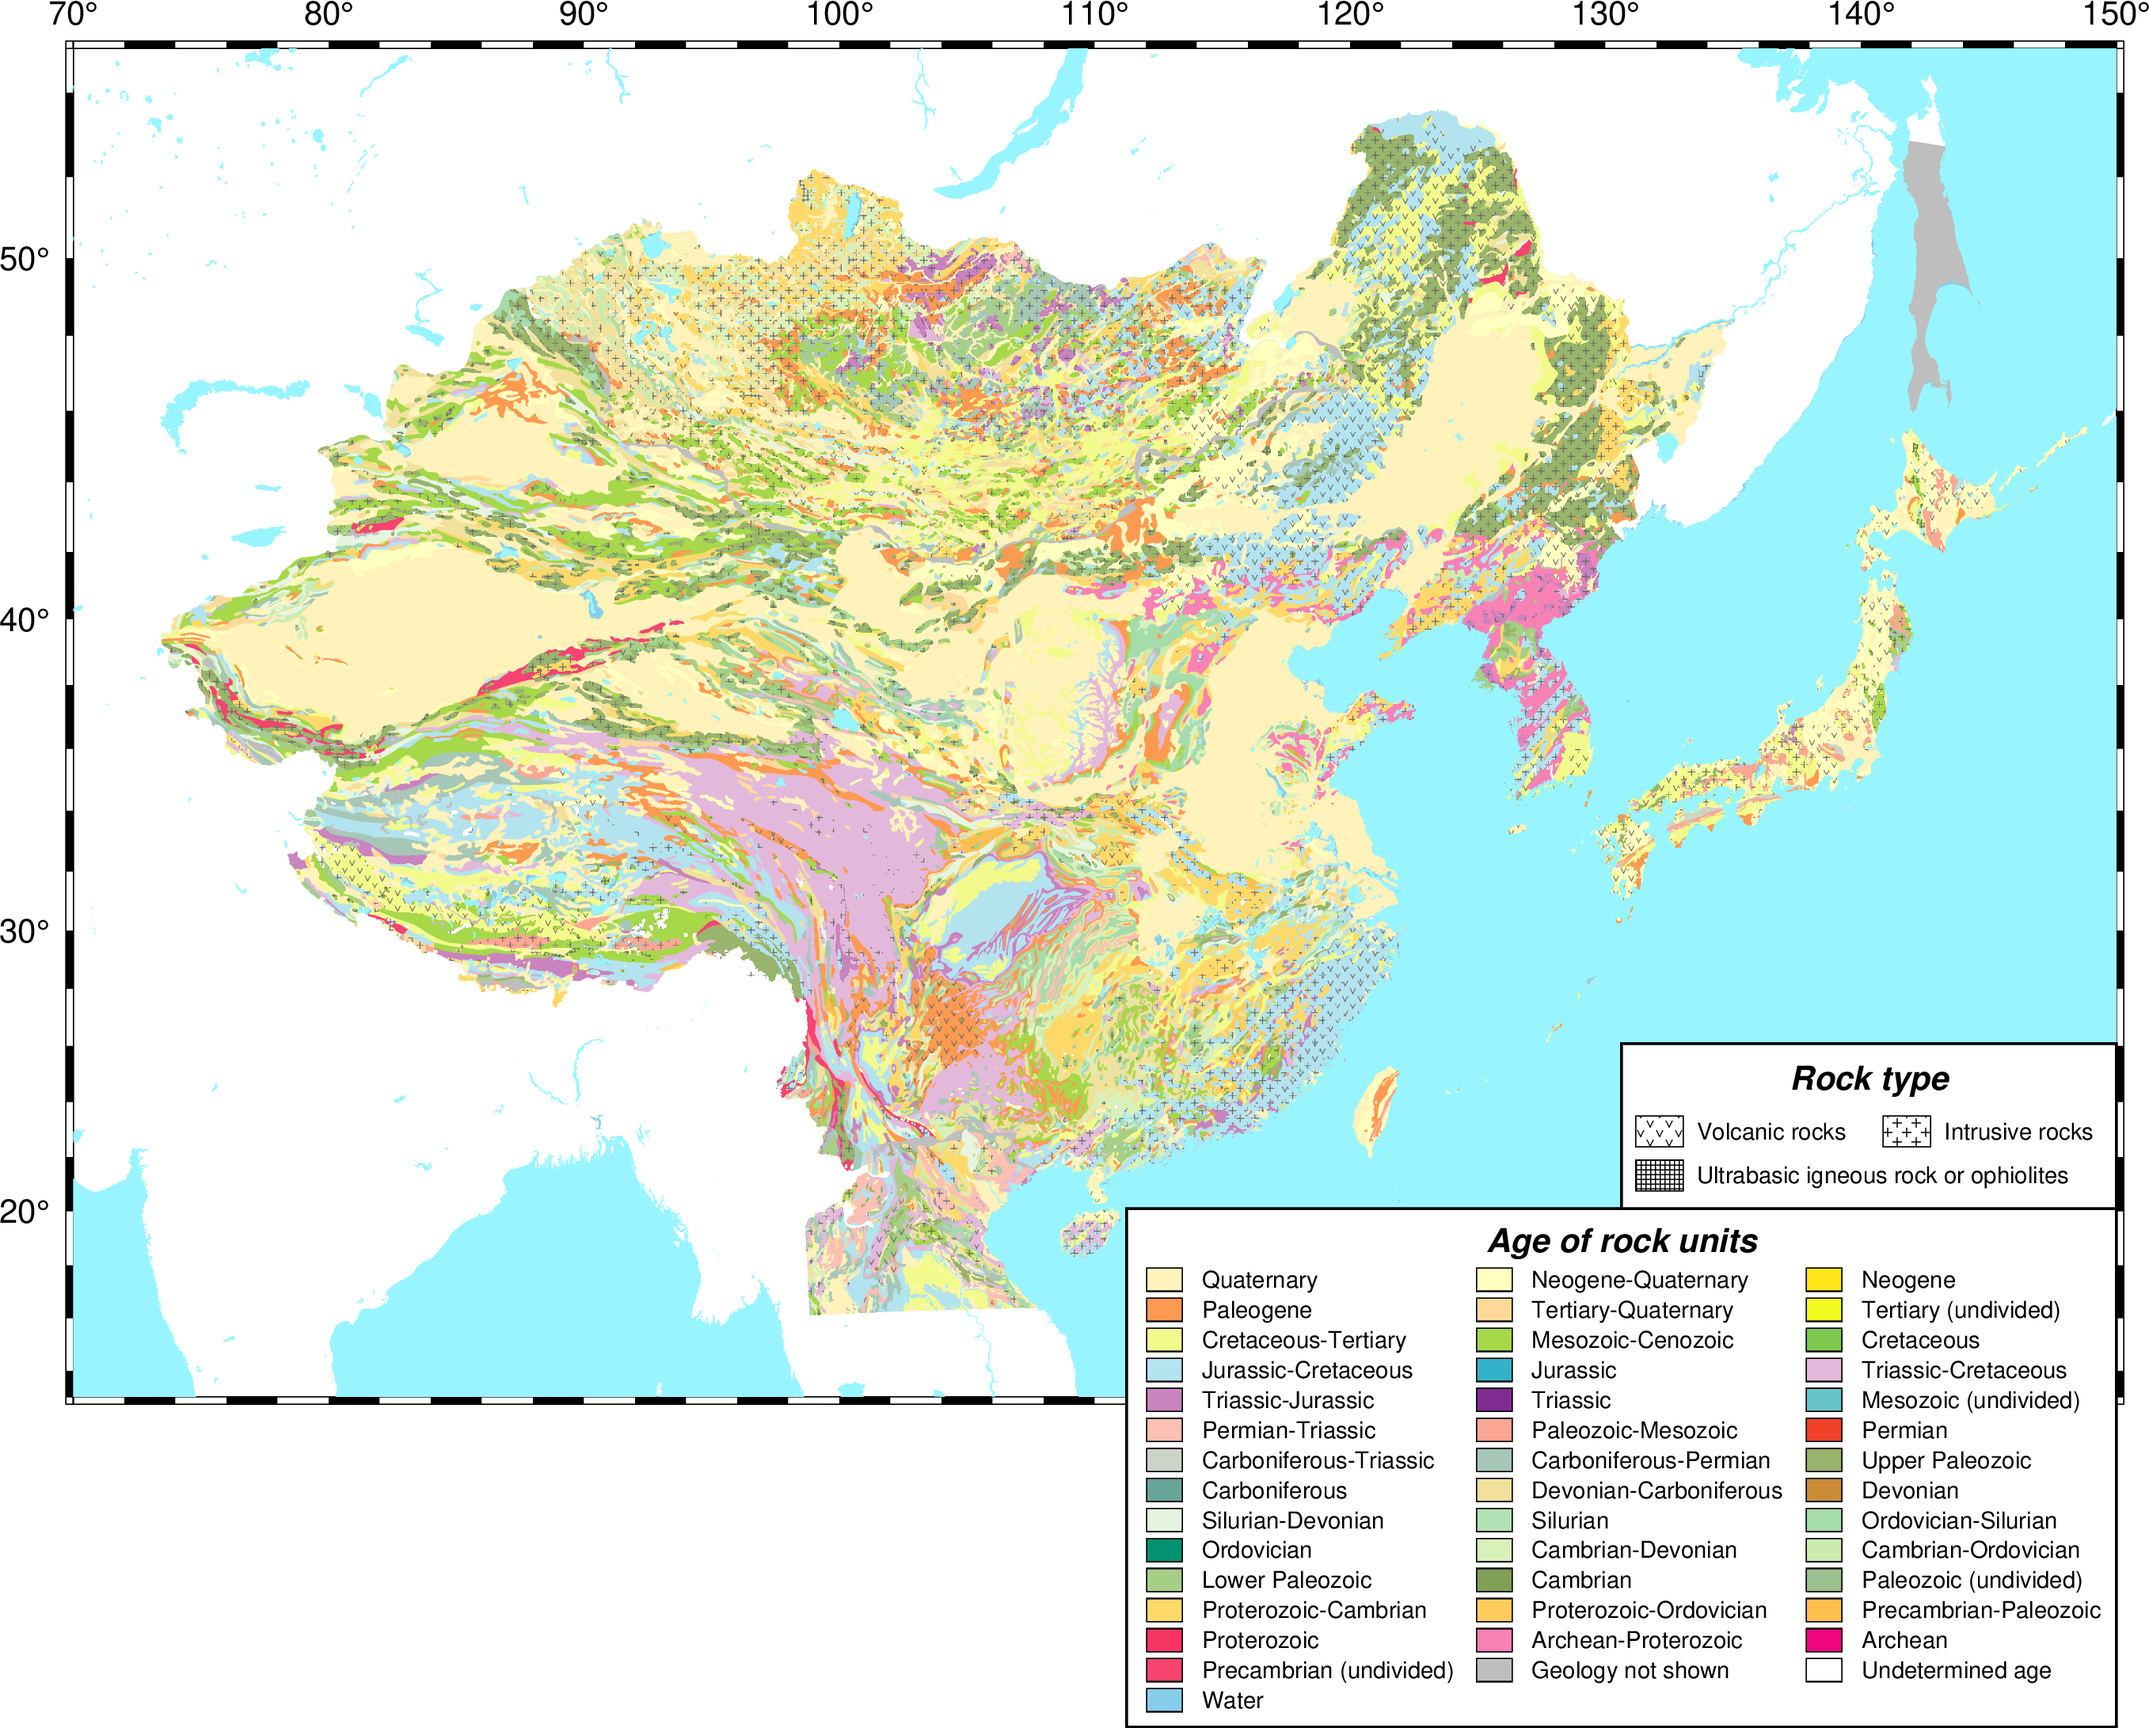
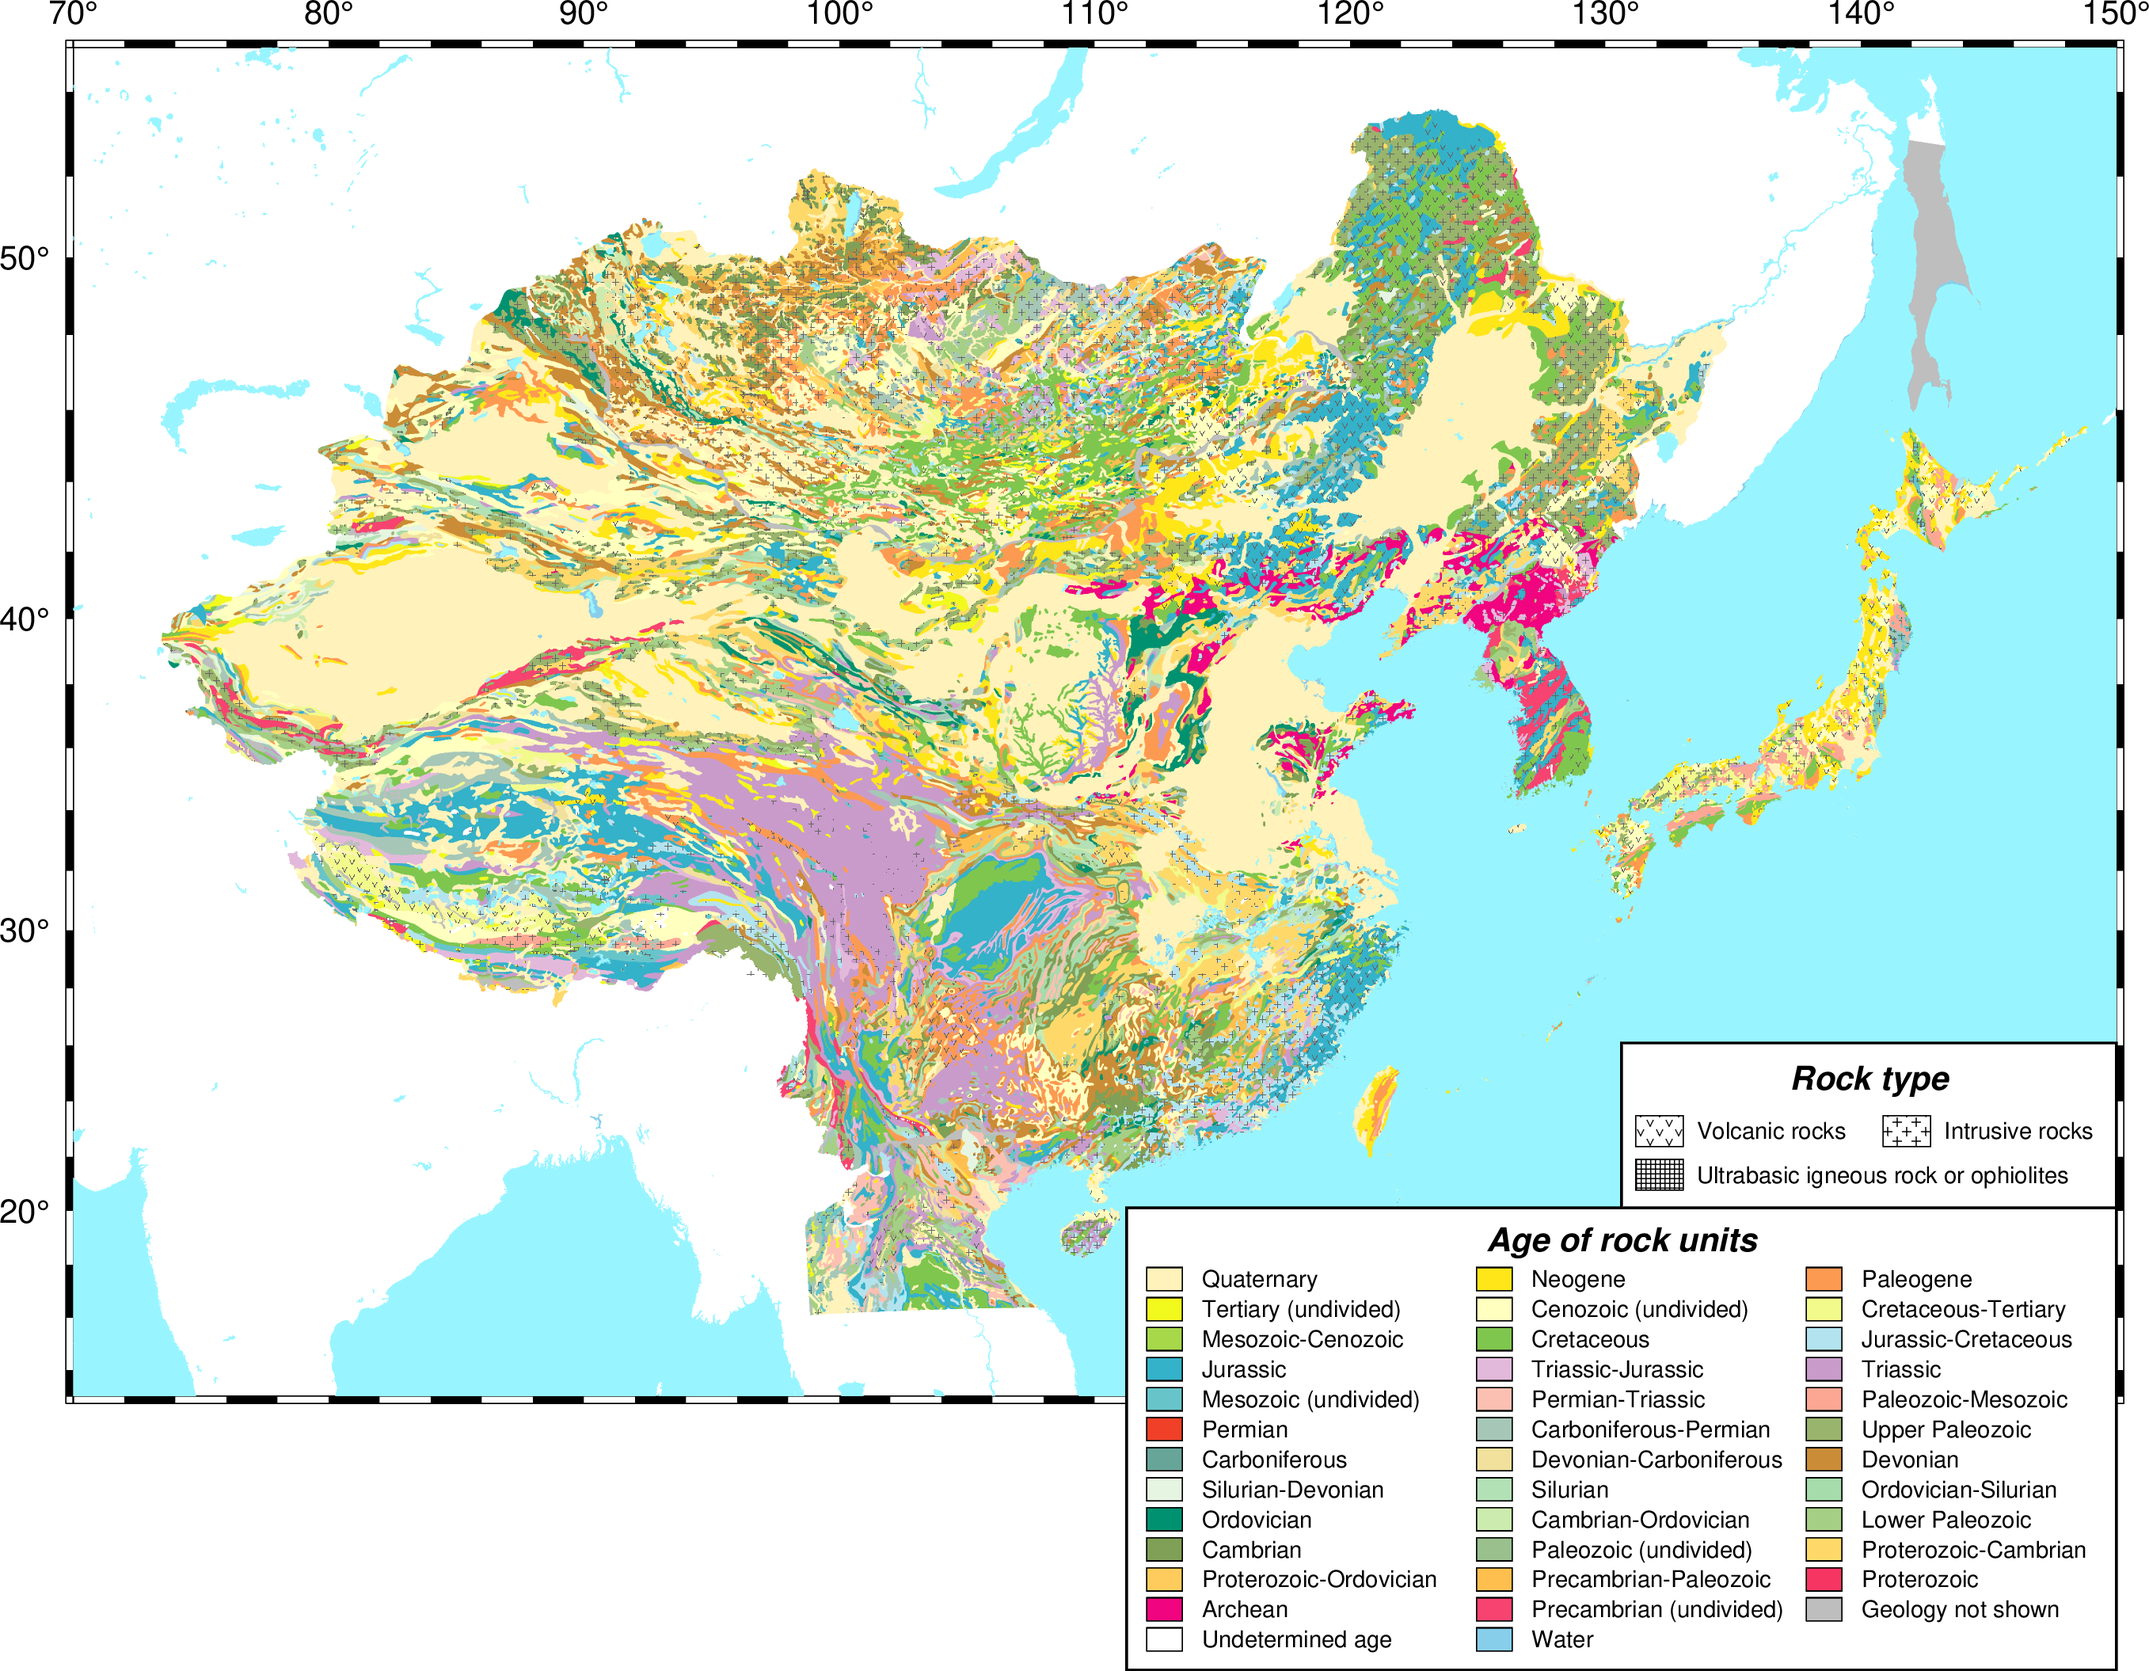
update gmt-geo

diff --git a/content/post/gmt-geo.md b/content/post/gmt-geo.md
@@ -43,7 +43,7 @@ ogr2ogr -f GMT geo3al.gmt geo3al.shp -t_srs EPSG:4326
 这里我们提供了已经完成上述步骤的地质年代文件和地质年代色标文件，可以在GMT中直接使用。
 
 - [地质年代文件](/source/geo3al.gmt)
-- [地质年代色标文件（GTS2012_periods）](/source/geoage_GEN_GLG.cpt)
+- [地质年代色标文件（修改自GTS2012）](/source/geoage_GEN_GLG.cpt)
 
 ## GMT脚本
 ```shell
